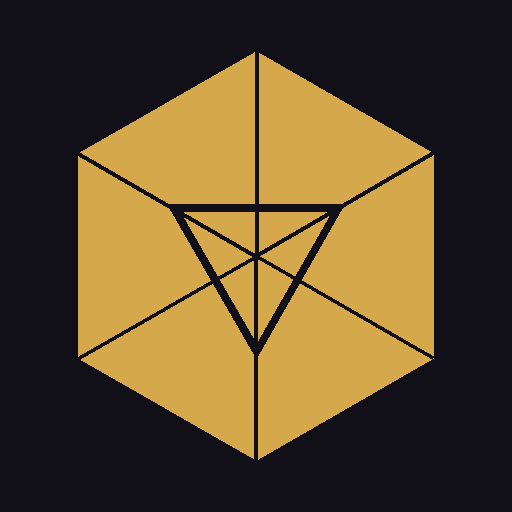
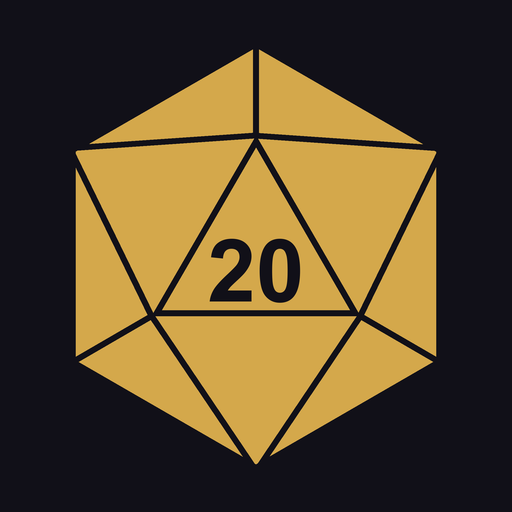
Efeitos na barra superior, dicas, e novo icone d20

diff --git a/js/iniciativa.js b/js/iniciativa.js
@@ -94,6 +94,30 @@
         const n = effects.length;
         return `conic-gradient(${effects.map((e, i) => `${e.color} ${(i * 100 / n).toFixed(1)}% ${((i + 1) * 100 / n).toFixed(1)}%`).join(",")})`;
       }
+
+      const FXD = {
+        fire: "Sofre dano de fogo no início ou no fim do turno (o valor depende da fonte do fogo). Apagar as chamas costuma gastar uma ação.",
+        ice: "Preso no gelo: deslocamento 0 e desvantagem em ataques e testes de Destreza até o gelo ser quebrado ou derreter (o Mestre pode ajustar).",
+        poison: "Desvantagem em jogadas de ataque e em testes de atributo.",
+        paralyzed: "Incapacitado, não se move nem fala. Falha automática em salvaguardas de Força e Destreza. Ataques contra ele têm vantagem, e acertos a 1,5 m são críticos.",
+        stunned: "Incapacitado, não se move e só fala de forma hesitante. Falha automática em salvaguardas de Força e Destreza. Ataques contra ele têm vantagem.",
+        frightened: "Desvantagem em testes de atributo e ataques enquanto a fonte do medo estiver à vista. Não pode se aproximar dela por vontade própria.",
+        charmed: "Não pode atacar quem o enfeitiçou nem mirá-lo com efeitos nocivos. Quem o enfeitiçou tem vantagem em testes sociais contra ele.",
+        blinded: "Não enxerga: falha em testes que dependem da visão. Ataques contra ele têm vantagem e os ataques dele têm desvantagem.",
+        deafened: "Não ouve e falha automaticamente em testes que dependem da audição.",
+        prone: "Só se move rastejando. Desvantagem nos próprios ataques. Ataques corpo a corpo contra ele têm vantagem; à distância, desvantagem.",
+        restrained: "Deslocamento 0. Ataques contra ele têm vantagem, os dele têm desvantagem, e tem desvantagem em salvaguardas de Destreza.",
+        grappled: "Deslocamento 0. O efeito termina se quem agarra ficar incapacitado ou se ele for afastado.",
+        invisible: "Ataques contra ele têm desvantagem e os dele têm vantagem. Só pode ser percebido por magia ou sentidos especiais.",
+        unconscious: "Incapacitado, caído, solta o que segura e não percebe nada. Falha automática em salvaguardas de Força e Destreza. Ataques contra ele têm vantagem, e acertos a 1,5 m são críticos.",
+        bless: "Soma 1d4 às jogadas de ataque e às salvaguardas.",
+        curse: "Sofre a penalidade definida pela maldição (a critério do Mestre).",
+        slow: "Deslocamento pela metade, −2 na CA e nas salvaguardas de Destreza, e não pode usar reações.",
+        haste: "Deslocamento dobrado, +2 na CA, vantagem em salvaguardas de Destreza e uma ação adicional limitada.",
+        conc: "Mantém uma magia de concentração. Ao sofrer dano, faz salvaguarda de Constituição (CD 10 ou metade do dano, o que for maior) para não perdê-la.",
+        custom: "Efeito personalizado."
+      };
+      const fxTip = (e) => `${e.name} — ${e.rounds == null ? "sem duração definida" : e.rounds + (e.rounds === 1 ? " rodada restante" : " rodadas restantes")}. ${FXD[e.type] || FXD.custom}`;
       function fxLeft(e) { return e.rounds == null ? "∞" : e.rounds; }
       function fxFormTpl(c) {
         return `<div class="fx-form"><select data-fxsel="${c.id}">${FX.map((f) => `<option value="${f[0]}">${f[1]}</option>`).join("")}</select>
@@ -177,11 +201,11 @@
           const hpClass = pct <= 25 ? "low" : pct <= 50 ? "mid" : "";
           return `
             <article class="combatant ${isActive ? "active" : ""} ${isDefeated ? "defeated" : ""}" data-key="${escapeText(c.key || "")}">
+              ${c.effects && c.effects.length ? `<div class="fxbar">${c.effects.map((e) => `<span class="fxchip" style="--c:${e.color}" data-fxtip="${escapeText(fxTip(e))}">${fxIcon(e.type)}${escapeText(e.name)} <b>${fxLeft(e)}</b><button type="button" data-fxdel="${c.id}|${e.id}" aria-label="Remover ${escapeText(e.name)}">${ico("x")}</button></span>`).join("")}</div>` : ""}
               <div class="initiative">${Number(c.initiative)}</div>
               <div>
-                <div class="name"><span class="avfx" ${c.effects && c.effects.length ? `style="background:${fxRing(c.effects)}"` : ""}>${window.__ini && window.__ini.avatar ? window.__ini.avatar(c.key, c.name, 34) : ""}${c.effects && c.effects.length ? `<span class="fxb" style="--c:${c.effects[0].color}" title="${escapeText(c.effects[0].name)}">${fxIcon(c.effects[0].type)}<b>${fxLeft(c.effects[0])}</b></span>` : ""}</span>${escapeText(c.name)}${isActive ? ` <span aria-label="turno atual" class="turn-mark">${ico("turn")}</span>` : ""}</div>
-                <div class="kind">${escapeText(c.kind)}${isDefeated ? " · Inconsciente/derrotado" : ""}</div>
-                ${c.effects && c.effects.length ? `<div class="fxchips">${c.effects.map((e) => `<span class="fxchip" style="--c:${e.color}" title="${e.rounds == null ? "sem duração definida" : e.rounds + " rodada(s) restante(s)"}">${fxIcon(e.type)}${escapeText(e.name)} <b>${fxLeft(e)}</b><button type="button" data-fxdel="${c.id}|${e.id}" aria-label="Remover ${escapeText(e.name)}">${ico("x")}</button></span>`).join("")}</div>` : ""}
+                <div class="name"><span class="avfx" ${c.effects && c.effects.length ? `style="--ring:${fxRing(c.effects)}"` : ""}>${window.__ini && window.__ini.avatar ? window.__ini.avatar(c.key, c.name, 34) : ""}${c.effects && c.effects.length ? `<span class="fxb" style="--c:${c.effects[0].color}" data-fxtip="${escapeText(fxTip(c.effects[0]))}">${fxIcon(c.effects[0].type)}<b>${fxLeft(c.effects[0])}</b></span>` : ""}</span>${escapeText(c.name)}${isActive ? ` <span aria-label="turno atual" class="turn-mark">${ico("turn")}</span>` : ""}</div>
+                <div class="kind${c.effects && c.effects.length ? " has-fx" : ""}">${escapeText(c.kind)}${isDefeated ? " · Inconsciente/derrotado" : ""}</div>
               </div>
               <div class="stat">CA<strong>${Number(c.ac)}</strong></div>
               <div class="stat">PV<strong>${Number(c.hp)}</strong></div>

diff --git a/css/estilo.css b/css/estilo.css
@@ -348,16 +348,14 @@ select{width:100%;min-width:0;height:39px;padding:0 10px;border:1px solid var(--
 .crop-prev canvas { border-radius: 50%; border: 1px solid var(--gold-dark); }
 
 /* efeitos */
-.avfx { position: relative; display: inline-flex; padding: 3px; border-radius: 50%; margin-right: 8px; vertical-align: middle; }
+.avfx { position: relative; display: inline-flex; border-radius: 50%; margin-right: 8px; vertical-align: middle; }
 .name .avfx .av { margin-right: 0; display: block; }
-.avfx:not([style]) { padding: 0; }
 .fxb { position: absolute; right: -9px; bottom: -5px; display: flex; align-items: center; gap: 1px; height: 18px; padding: 0 5px; border: 1px solid var(--c); border-radius: 99px; background: #15131c; font-size: 11px; line-height: 1; white-space: nowrap; }
 .fxb { color: var(--c); }
 .fxb b { font-size: 10px; color: var(--text); }
 .fxi { width: 12px; height: 12px; flex: 0 0 auto; }
 .fxchip { color: var(--c); }
 .fxchip .fxi { margin-right: 1px; }
-.fxchips { display: flex; flex-wrap: wrap; gap: 4px; margin-top: 5px; }
 .fxchip { display: inline-flex; align-items: center; gap: 3px; padding: 1px 3px 1px 7px; border: 1px solid var(--c); border-radius: 99px; background: rgba(255,255,255,.04); font-size: 11px; font-weight: 600; }
 .fxchip b { color: var(--c); }
 .fxchip button { min-height: 0; width: 17px; height: 17px; padding: 0; border: 0; background: transparent; color: var(--muted); font-size: 10px; }
@@ -376,3 +374,12 @@ button .ico:last-child:not(:first-child) { margin: 0 0 0 4px; }
 .fxchip button .ico { width: 10px; height: 10px; margin: 0; vertical-align: middle; }
 .clearable .xbtn .ico { width: 15px; height: 15px; margin: 0; }
 .chip b .ico { width: 11px; height: 11px; margin: 0; vertical-align: middle; }
+
+/* efeitos: o anel fica por fora da foto (não muda o tamanho nem a posição dela) */
+.avfx[style]::before { content: ""; position: absolute; inset: -3px; border-radius: 50%; background: var(--ring); }
+.avfx .av { position: relative; z-index: 1; }
+.fxb { z-index: 2; }
+.kind.has-fx { margin-top: 10px; }
+.fxbar { grid-column: 1 / -1; display: flex; flex-wrap: nowrap; gap: 6px; overflow-x: auto; padding-bottom: 2px; scrollbar-width: thin; }
+.fxbar .fxchip { flex: 0 0 auto; cursor: help; }
+.fxb { cursor: help; }

diff --git a/js/app.js b/js/app.js
@@ -474,9 +474,9 @@
       const hb = t.closest(".hab"); if (hb && !t.closest(".roll")) hb.classList.toggle("open");
     });
     const tip = $("#tip");
-    document.addEventListener("mouseover", (e) => { if (matchMedia("(hover: none)").matches) return; const h = e.target.closest(".hab"); if (!h || h.classList.contains("open")) { tip.style.display = "none"; return; } const s = h.dataset.desc || ""; tip.textContent = s.length > 260 ? s.slice(0, 260) + "… (clique para ler tudo)" : s; tip.style.display = s ? "block" : "none"; });
+    document.addEventListener("mouseover", (e) => { if (matchMedia("(hover: none)").matches) return; const h = e.target.closest(".hab,[data-fxtip]"); if (!h || h.classList.contains("open")) { tip.style.display = "none"; return; } const s = h.dataset.desc || h.dataset.fxtip || ""; tip.textContent = s.length > 260 ? s.slice(0, 260) + "… (clique para ler tudo)" : s; tip.style.display = s ? "block" : "none"; });
     document.addEventListener("mousemove", (e) => { tip.style.left = Math.max(8, Math.min(e.clientX + 14, innerWidth - 340)) + "px"; tip.style.top = e.clientY + 14 + "px"; });
-    document.addEventListener("mouseout", (e) => { if (!e.relatedTarget?.closest?.(".hab")) tip.style.display = "none"; });
+    document.addEventListener("mouseout", (e) => { if (!e.relatedTarget?.closest?.(".hab,[data-fxtip]")) tip.style.display = "none"; });
     $("#tr-exp").onclick = () => { const a = document.createElement("a"); a.href = URL.createObjectURL(new Blob([JSON.stringify({ ...D.M, ...TR }, null, 1)], { type: "application/json" })); a.download = "traducoes-monstros.json"; a.click(); };
     $("#tr-imp").onchange = async (e) => { const f = e.target.files[0]; if (!f) return; try { const o = JSON.parse(await f.text()); for (const k in o) TR[k.toLowerCase()] = String(o[k]); saveTR(); renderBestiary(); } catch (_) { alert("Arquivo JSON inválido."); } e.target.value = ""; };
 

diff --git a/sw.js b/sw.js
@@ -1,5 +1,5 @@
-const CACHE = "rastreador-v4"; // mude o número quando quiser forçar todos os aparelhos a baixar tudo de novo
-const ESSENCIAIS = ["./", "index.html", "manifest.json", "css/estilo.css", "js/icones.js", "js/iniciativa.js", "js/app.js", "dados/srd-pt.json", "icones/icone-192.png"];
+const CACHE = "rastreador-v5"; // mude o número quando quiser forçar todos os aparelhos a baixar tudo de novo
+const ESSENCIAIS = ["./", "index.html", "manifest.json", "css/estilo.css", "js/icones.js", "js/iniciativa.js", "js/app.js", "dados/srd-pt.json", "icones/icone-192.png", "icones/favicon-32.png", "favicon.ico"];
 self.addEventListener("install", (e) => e.waitUntil(caches.open(CACHE).then((c) => c.addAll(ESSENCIAIS.map((u) => new Request(u, { cache: "reload" })))).then(() => self.skipWaiting())));
 self.addEventListener("activate", (e) => e.waitUntil(
   caches.keys().then((ks) => Promise.all(ks.filter((k) => k !== CACHE).map((k) => caches.delete(k)))).then(() => self.clients.claim())

diff --git a/ferramentas/importar-ldj.html b/ferramentas/importar-ldj.html
@@ -4,6 +4,8 @@
 <meta charset="utf-8">
 <meta name="viewport" content="width=device-width, initial-scale=1">
 <meta http-equiv="Content-Security-Policy" content="default-src 'self'; script-src 'self' 'wasm-unsafe-eval'; style-src 'self' 'unsafe-inline'; worker-src 'self' blob:; connect-src 'self'">
+<link rel="icon" href="../favicon.ico" sizes="any">
+<link rel="icon" type="image/png" sizes="32x32" href="../icones/favicon-32.png">
 <title>Importar tradução do Livro do Jogador</title>
 <style>
   :root { color-scheme: dark; --bg:#111018; --panel:#1b1a24; --txt:#e8e4d8; --muted:#9a95a8; --acc:#d4a84b; --bad:#e06c6c; }

diff --git a/index.html b/index.html
@@ -7,7 +7,10 @@
   <title>Iniciativa — D&D 5e</title>
   <meta name="theme-color" content="#111018">
   <link rel="manifest" href="manifest.json">
-  <link rel="icon" href="icones/icone-192.png">
+  <link rel="icon" href="favicon.ico" sizes="any">
+  <link rel="icon" type="image/png" sizes="32x32" href="icones/favicon-32.png">
+  <link rel="icon" type="image/png" sizes="192x192" href="icones/icone-192.png">
+  <link rel="apple-touch-icon" href="icones/apple-touch-icon.png">
   <link rel="stylesheet" href="css/estilo.css">
   <script src="js/icones.js" defer></script>
   <script src="js/iniciativa.js" defer></script>
